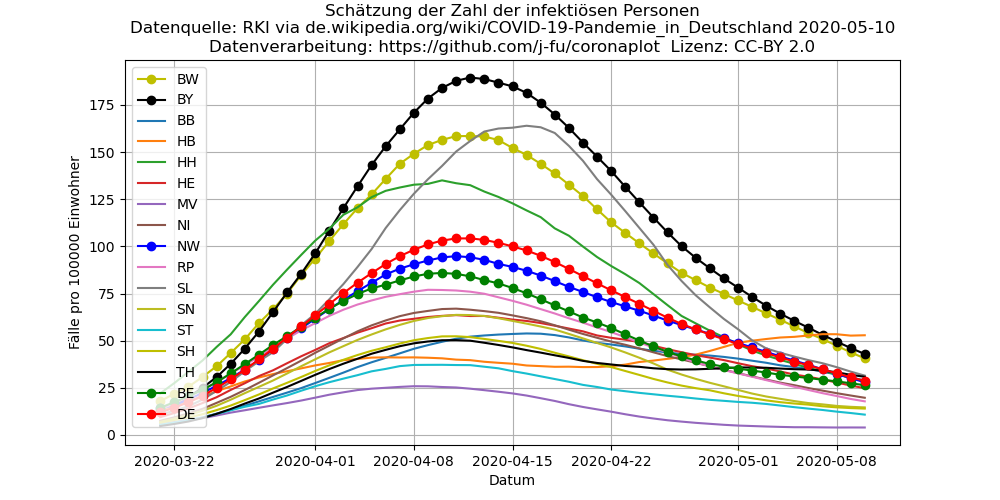
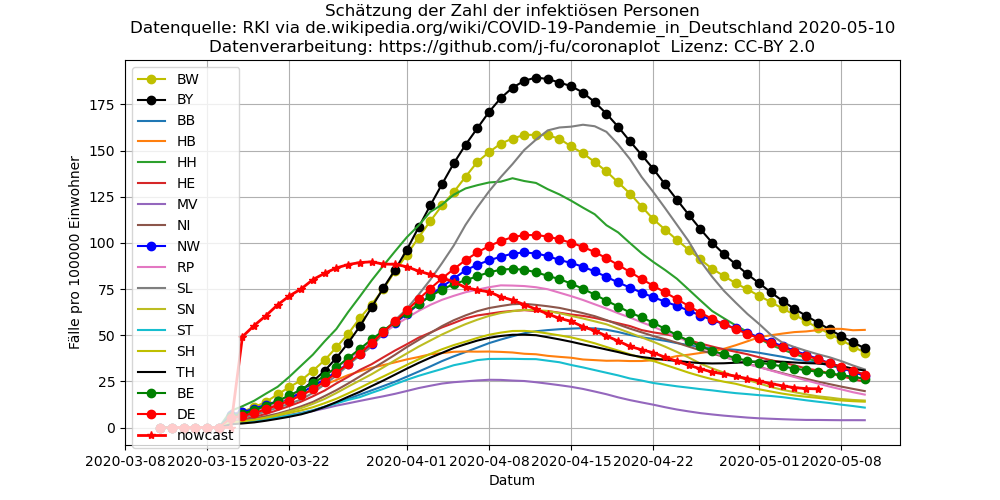
data update

diff --git a/docs/index.md b/docs/index.md
@@ -5,11 +5,15 @@ title: Entwicklung der COVID-19 - Pandemie in Deutschland
 - [This page in English](index.en.md) with the plots for selected countries.
 - [Quellcode](https://github.com/j-fu/coronaplot)
 - Weitere Links
-   - die Darstellungen sind inspiriert durch die sehr ähnliche [Analyse meines Kollegen J. Polzehl](https://www.wias-berlin.de/people/polzehl/COVID-19.jsp),   teilweise auf anderer Datengrundlage und mit Darstellung für die US-Bundesstaaten
-   - eine mathematische Analyse meiner Kollegen [M. Kantner und Th. Koprucki](https://arxiv.org/abs/2004.09471)
+    - Die Mathematik hinter den Reporduktionszahlen [(heise.de)](https://www.heise.de/newsticker/meldung/Corona-Pandemie-Die-Mathematik-hinter-den-Reproduktionszahlen-R-4712676.html)
+    - Seite des RKI zu [Nowcasting](https://www.rki.de/DE/Content/InfAZ/N/Neuartiges_Coronavirus/Projekte_RKI/Nowcasting.html)
+    - Beitrag des [NDR](https://www.ndr.de/nachrichten/info/Corona-Daten-unter-Verschluss-RKI-bremst-Diskurs-aus,rki118.html)
+      zur Datentransparenz des RKI
+    - die Darstellungen sind inspiriert durch die sehr ähnliche [Analyse meines Kollegen J. Polzehl](https://www.wias-berlin.de/people/polzehl/COVID-19.jsp),   teilweise auf anderer Datengrundlage und mit Darstellung für die US-Bundesstaaten
+    - eine mathematische Analyse meiner Kollegen [M. Kantner und Th. Koprucki](https://arxiv.org/abs/2004.09471)
      zur mögkichen Steuerung in der Lockerungsphase
-   - Coronavirus Charts auf [xkcd](https://xkcd.com/2294/)
-
+    - Coronavirus Charts auf [xkcd](https://xkcd.com/2294/)
+   
 ## Einführung
 
 Die weit verbreitete Darstellung der absoluten Zahlen der bestätigten Infektionen sagt viel über die Anfangsphase
@@ -49,7 +53,9 @@ beschrieben. Hier wird dieselbe Methodik benutzt, allerdings wird die Berechnung
 
 ## Änderungen
 Hier werden wesentliche Änderungen neben der Aktualisierung der Daten dokumentiert.
-
+### 2020-05-10
+- Zusätzliche Darstellung auf der Grundlage der Nowcast-Daten des RKI (diese sind alledings nur
+  für Deutschland insgesamt verfügbar)
 ### 2020-05-06 
 - Umstellung der Plots. Hier sind die letzten "alten" Plots zu sehen.
 <img src="https://github.com/j-fu/coronaplot/raw/master/docs/de-infected.png" width="200"> 
